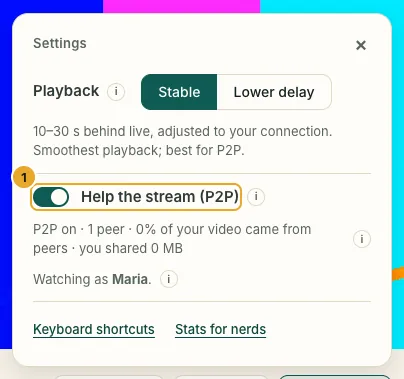
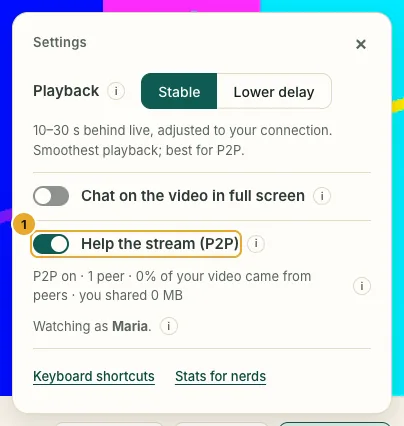
docs: the Settings menu screenshot with the chat over the video switch

diff --git a/site/src/content/docs/pt-br/viewers.md b/site/src/content/docs/pt-br/viewers.md
@@ -26,7 +26,7 @@ Uma barra na parte de baixo do vídeo tem os botões do player. Ela é igual em 
 - **Só o áudio (economiza dados):** a última opção do menu de qualidade. Você ouve a live sem a imagem, e ela gasta muito menos dados: cerca de 85% menos que 360p (mais ou menos 50 a 70 MB por hora). Bom no plano de dados do celular, ou quando você só quer ouvir. No lugar do vídeo aparecem a foto e o nome de quem transmite, ou "Só o áudio". Escolha uma qualidade (ou **Auto**) para ver a imagem de novo. O navegador lembra a escolha na próxima vez.
 - **Configurações** (a engrenagem embaixo do vídeo): Reprodução, Ajudar a transmissão (P2P), o seu apelido, Atalhos de teclado e Estatísticas para nerds. Esc, um clique fora ou × fecha.
 
-  ![O menu Configurações: Reprodução Estável ou Menos atraso, 1 a chave Ajudar a transmissão (P2P), ligada aqui, com quantos peers ajudam, o seu apelido, Atalhos de teclado e Estatísticas para nerds.](../../../assets/guides/viewers/pt-br/watch-settings.webp)
+  ![O menu Configurações: Reprodução Estável ou Menos atraso, Chat sobre o vídeo em tela cheia, 1 a chave Ajudar a transmissão (P2P), ligada aqui, com quantos peers ajudam, o seu apelido, Atalhos de teclado e Estatísticas para nerds.](../../../assets/guides/viewers/pt-br/watch-settings.webp)
 
 - **Reprodução: Estável ou Menos atraso** (em **Configurações**). **Estável** (o padrão) deixa mais vídeo guardado, então uma oscilação rápida da internet não trava a live. **Menos atraso** fica mais perto do ao vivo (de 6 a 10 segundos), bom para conversar no chat, mas trava com mais facilidade.
 - **Ajudar a transmissão (P2P)** (em **Configurações**): vem desligada por padrão; você pode ligar (veja abaixo).

diff --git a/site/src/content/docs/viewers.md b/site/src/content/docs/viewers.md
@@ -26,7 +26,7 @@ A bar along the bottom of the video has the player's buttons. It looks the same 
 - **Audio only (saves data):** the last choice in the quality menu. You hear the live without the picture, and it uses much less data: about 85% less than 360p (roughly 50 to 70 MB per hour). Good on mobile data, or when you only want to listen. The video area shows the streamer's picture and name, or "Audio only". Pick a quality (or **Auto**) to see the picture again. Your browser remembers the choice for next time.
 - **Settings** (the gear under the video): Playback, Help the stream (P2P), your nickname, Keyboard shortcuts and Stats for nerds. Esc, a click outside or × closes it.
 
-  ![The Settings menu: Playback Stable or Lower delay, 1 the Help the stream (P2P) switch, turned on here, with how many peers help, your nickname, Keyboard shortcuts and Stats for nerds.](../../assets/guides/viewers/en/watch-settings.webp)
+  ![The Settings menu: Playback Stable or Lower delay, Chat on the video in full screen, 1 the Help the stream (P2P) switch, turned on here, with how many peers help, your nickname, Keyboard shortcuts and Stats for nerds.](../../assets/guides/viewers/en/watch-settings.webp)
 
 - **Playback: Stable or Lower delay** (in **Settings**). **Stable** (default) keeps more video ready, so short internet hiccups do not pause it. **Lower delay** is closer to live (6 to 10 seconds), good for chatting, but pauses more easily.
 - **Help the stream (P2P)** (in **Settings**): off by default; you can turn it on (see below).
